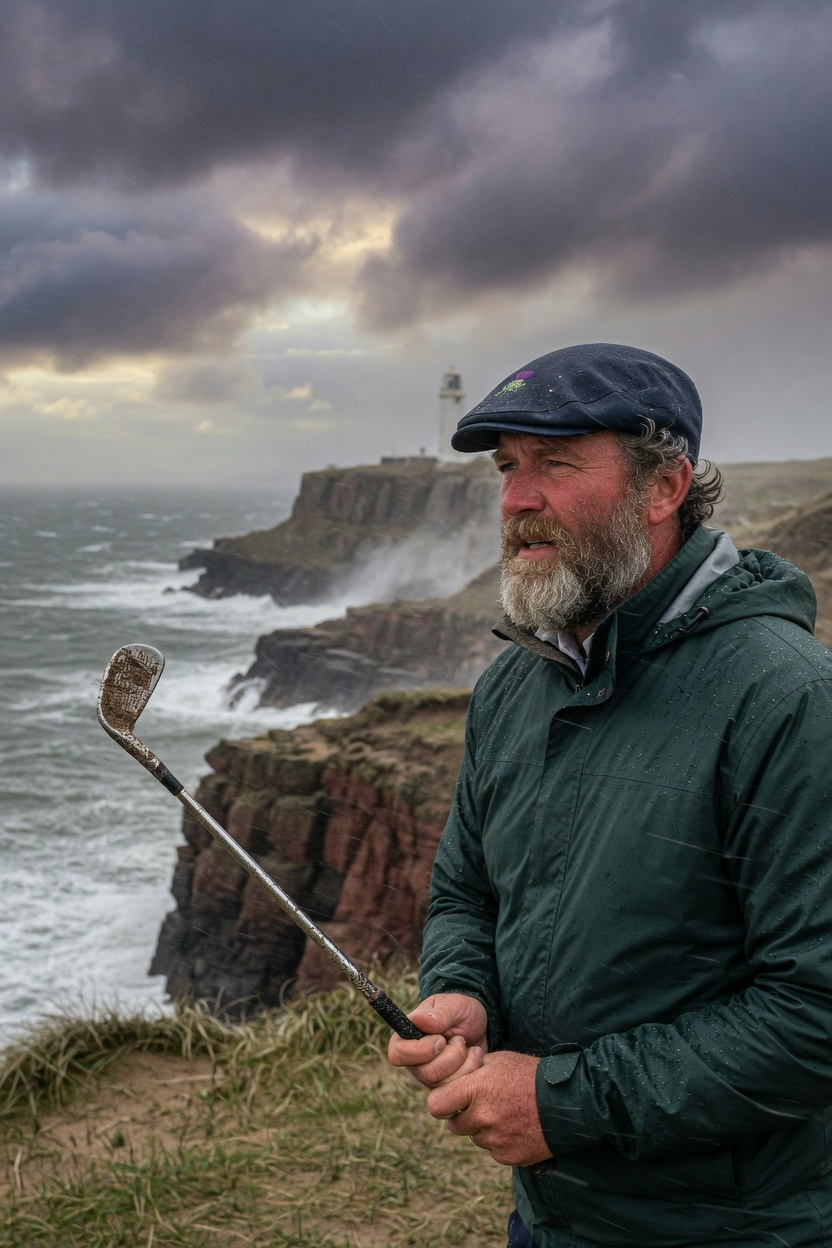
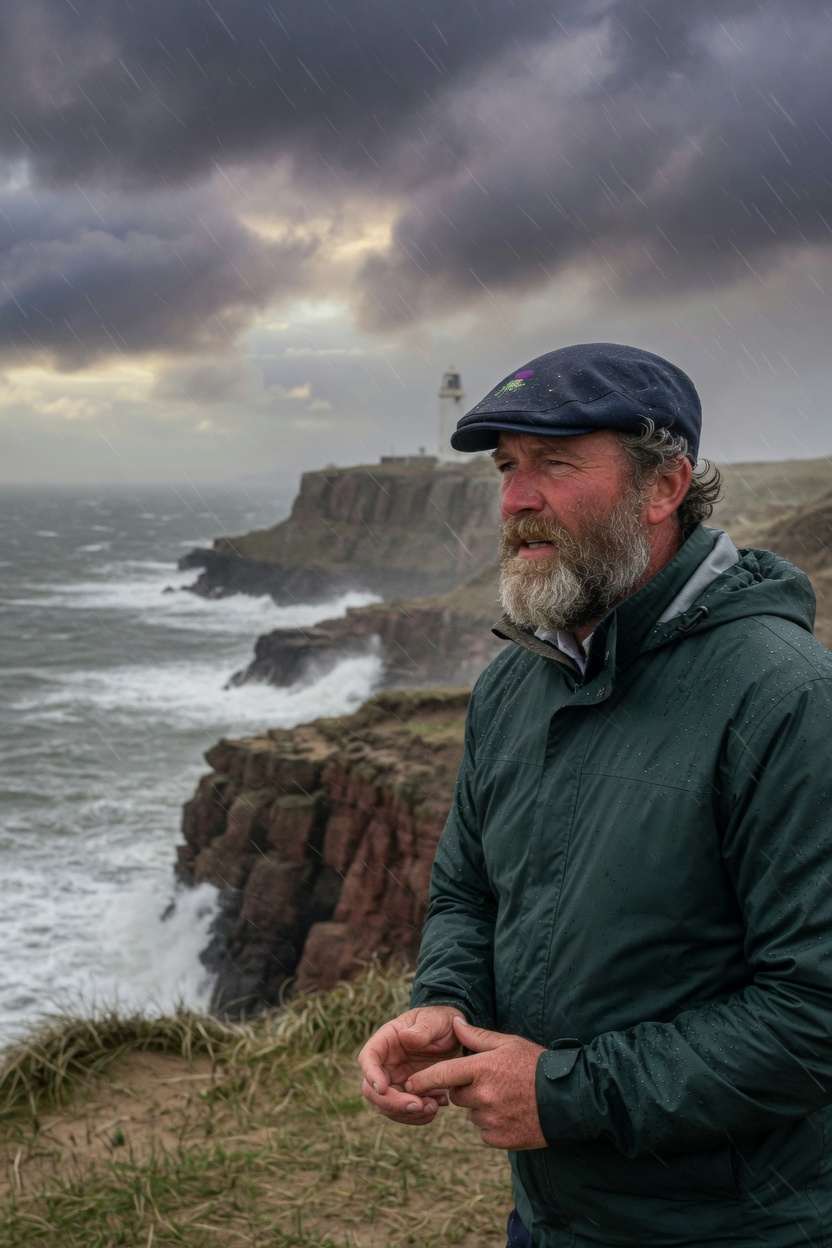
Golf: club-free golfer portraits (cache v2 / game.js v19).

diff --git a/games/lattice-golf/game.js b/games/lattice-golf/game.js
@@ -24,12 +24,12 @@
     { id: "pt", name: "Putter", min: 0, max: 40, putt: true },
   ];
   const CAST = [
-    { id: "mira", name: "Mira Quinn", tag: "Parkland", src: "./assets/g-mira.jpg" },
-    { id: "sancora", name: "Sancora Vale", tag: "Links", src: "./assets/g-sancora.jpg" },
-    { id: "lyra", name: "Lyra Helmer", tag: "Night green", src: "./assets/g-lyra.jpg" },
-    { id: "reed", name: "Reed Hollow", tag: "Pines", src: "./assets/g-reed.jpg" },
-    { id: "calder", name: "Calder Voss", tag: "Wind", src: "./assets/g-calder.jpg" },
-    { id: "kai", name: "Kai Park", tag: "Lights", src: "./assets/g-kai.jpg" },
+    { id: "mira", name: "Mira Quinn", tag: "Parkland", src: "./assets/g-mira.jpg?v=2" },
+    { id: "sancora", name: "Sancora Vale", tag: "Links", src: "./assets/g-sancora.jpg?v=2" },
+    { id: "lyra", name: "Lyra Helmer", tag: "Night green", src: "./assets/g-lyra.jpg?v=2" },
+    { id: "reed", name: "Reed Hollow", tag: "Pines", src: "./assets/g-reed.jpg?v=2" },
+    { id: "calder", name: "Calder Voss", tag: "Wind", src: "./assets/g-calder.jpg?v=2" },
+    { id: "kai", name: "Kai Park", tag: "Lights", src: "./assets/g-kai.jpg?v=2" },
   ];
   function golferOf(id) {
     return CAST.find(function (c) { return c.id === id; }) || CAST[0];
@@ -1587,7 +1587,7 @@
     showSheet(
       "<div class='title-screen'>" +
         "<div class='title-art'>" +
-          "<img src='./assets/menu.jpg?v=18' alt='Lattice Golf — twilight pin and cup'>" +
+          "<img src='./assets/menu.jpg?v=19' alt='Lattice Golf — twilight pin and cup'>" +
           "<div class='title-art-fade'></div>" +
         "</div>" +
         "<div class='title-panel'>" +

diff --git a/games/lattice-golf/index.html b/games/lattice-golf/index.html
@@ -61,7 +61,7 @@
     <div class="viewport">
       <canvas id="fairway" tabindex="0" aria-label="Golf hole"></canvas>
       <div class="golfer-plate" id="golferPlate">
-        <img id="golferImg" alt="Golfer" src="./assets/g-mira.jpg">
+        <img id="golferImg" alt="Golfer" src="./assets/g-mira.jpg?v=2">
         <div class="golfer-meta">
           <b id="golferName">Mira Quinn</b>
           <span id="golferTag">Parkland</span>
@@ -118,6 +118,6 @@
 
 <div id="overlay" class="overlay"></div>
 <script src="./radio.js"></script>
-<script src="./game.js?v=18"></script>
+<script src="./game.js?v=19"></script>
 </body>
 </html>
